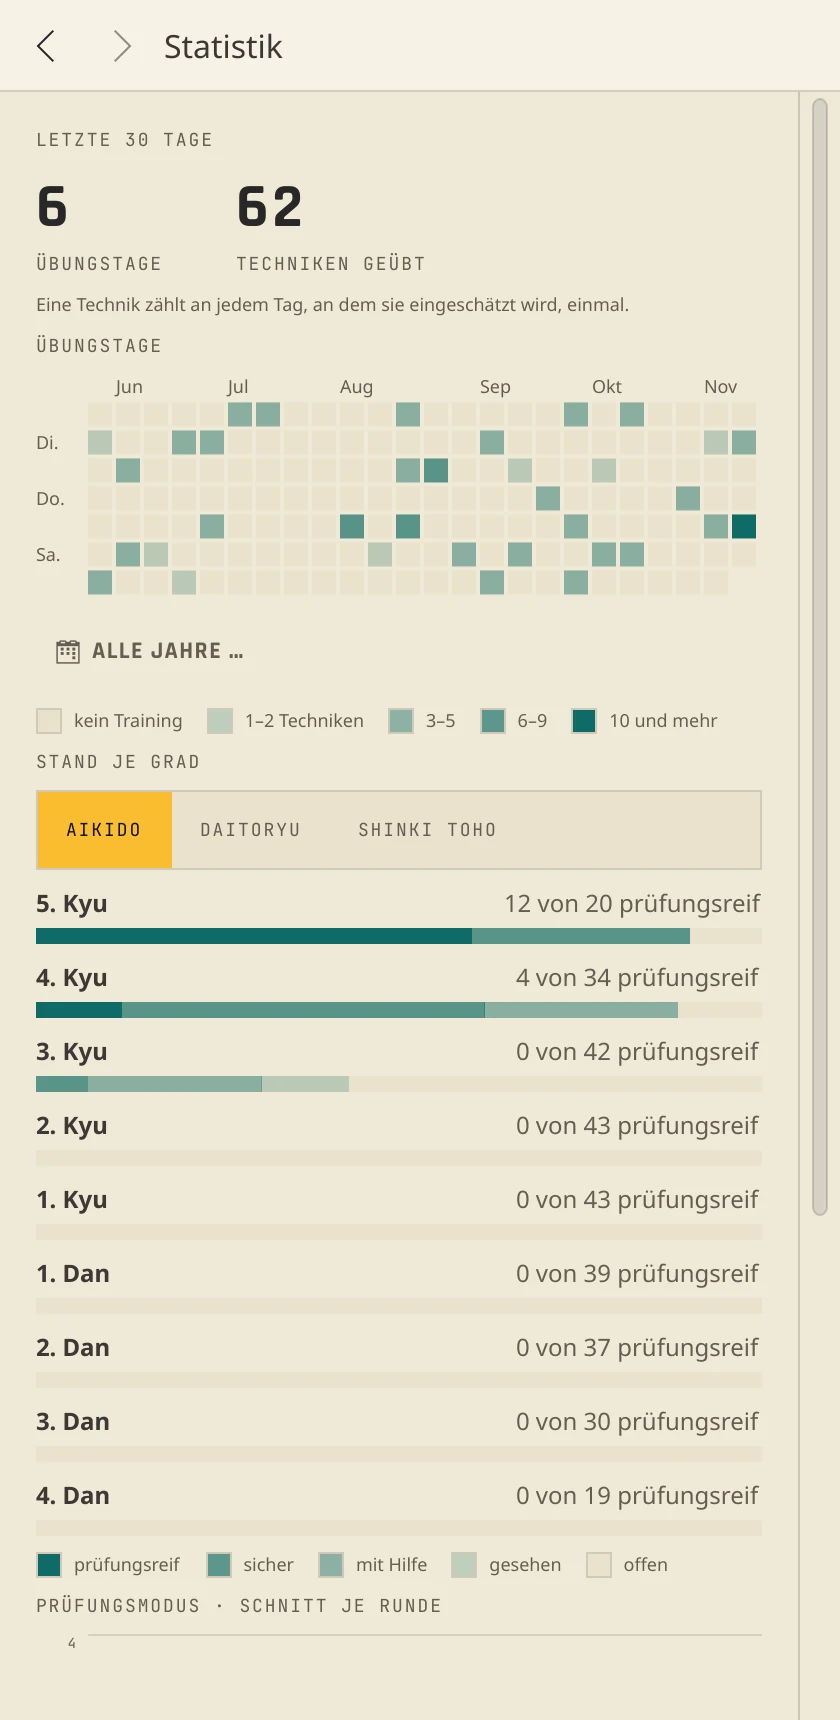
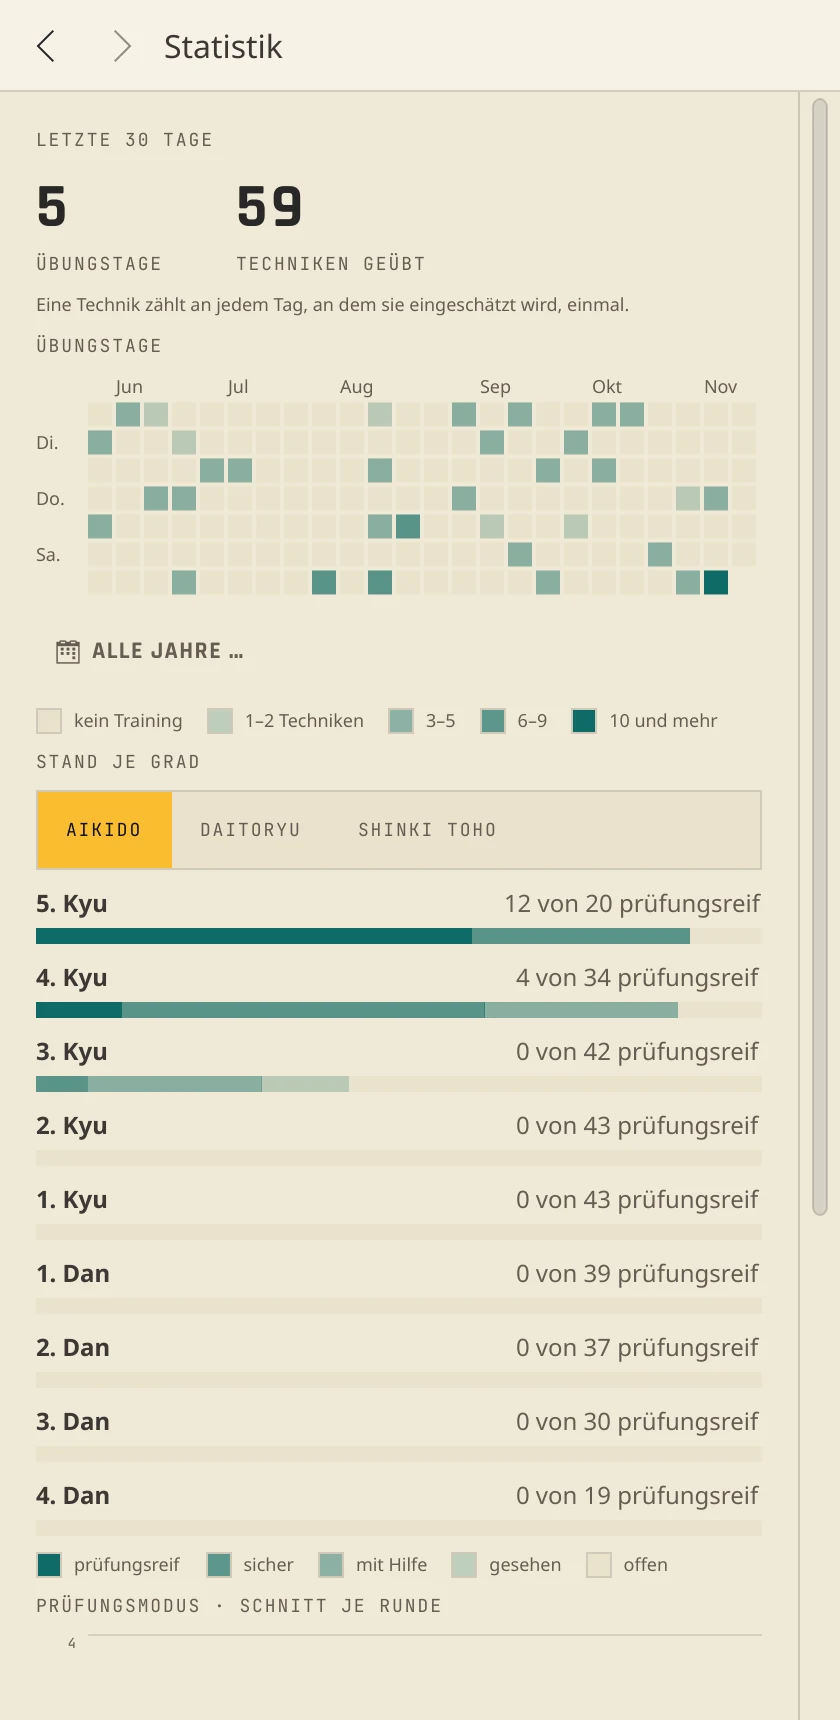
Anchor demo days, fix release text details
Reviews of #108 and shrippen.github.io#106:
- the demo world's dojo days count from the anchor (the Monday of
  this week), as the world's rule says, so courses fall on the
  weekdays their texts name; shots taken again;
- slow motion has three speeds (0.25, 0.5, 0.75), not four;
- the landing page names Settings -> Videos as the app does and
  shows file names with <version> instead of X.Y.Z.

Claude-Session: https://claude.ai/code/session_01AeAYXmzprBd46cSujmT9hN

Changed region(s): [[0.3714, 0.2157, 0.8976, 0.3698], [0.0929, 0.2157, 0.3405, 0.3698], [0.3095, 0.0924, 0.3405, 0.1233]]

diff --git a/docs/index.html b/docs/index.html
@@ -193,13 +193,13 @@
   <p lang="de">Alle Dateien stehen im <a href="https://github.com/shrippen/mitori-app/releases/latest">neuesten GitHub-Release</a>.</p>
   <div class="table-wrap"><table class="table">
     <tr><th><span lang="en">File</span><span lang="de">Datei</span></th><th><span lang="en">For</span><span lang="de">Für</span></th></tr>
-    <tr><td><code>Mitori-X.Y.Z.apk</code></td><td><span lang="en">Android 9 or newer, 64-bit ARM. Open it on the phone and allow the install from your browser or file manager.</span><span lang="de">Android 9 oder neuer, 64-Bit-ARM. Auf dem Telefon öffnen und die Installation aus Browser oder Dateimanager erlauben.</span></td></tr>
-    <tr><td><code>Mitori-X.Y.Z-x86_64.AppImage</code></td><td><span lang="en">Linux on x86_64: make it executable and start it.</span><span lang="de">Linux auf x86_64: ausführbar machen und starten.</span></td></tr>
-    <tr><td><code>Mitori-X.Y.Z-x86_64.flatpak</code></td><td><span lang="en">Linux on x86_64: <code>flatpak install --user</code> with the file.</span><span lang="de">Linux auf x86_64: <code>flatpak install --user</code> mit der Datei.</span></td></tr>
-    <tr><td><code>Mitori-X.Y.Z-aarch64.flatpak</code></td><td><span lang="en">Plasma Mobile and other Linux on 64-bit ARM.</span><span lang="de">Plasma Mobile und anderes Linux auf 64-Bit-ARM.</span></td></tr>
+    <tr><td><code>Mitori-&lt;version&gt;.apk</code></td><td><span lang="en">Android 9 or newer, 64-bit ARM. Open it on the phone and allow the install from your browser or file manager.</span><span lang="de">Android 9 oder neuer, 64-Bit-ARM. Auf dem Telefon öffnen und die Installation aus Browser oder Dateimanager erlauben.</span></td></tr>
+    <tr><td><code>Mitori-&lt;version&gt;-x86_64.AppImage</code></td><td><span lang="en">Linux on x86_64: make it executable and start it.</span><span lang="de">Linux auf x86_64: ausführbar machen und starten.</span></td></tr>
+    <tr><td><code>Mitori-&lt;version&gt;-x86_64.flatpak</code></td><td><span lang="en">Linux on x86_64: <code>flatpak install --user</code> with the file.</span><span lang="de">Linux auf x86_64: <code>flatpak install --user</code> mit der Datei.</span></td></tr>
+    <tr><td><code>Mitori-&lt;version&gt;-aarch64.flatpak</code></td><td><span lang="en">Plasma Mobile and other Linux on 64-bit ARM.</span><span lang="de">Plasma Mobile und anderes Linux auf 64-Bit-ARM.</span></td></tr>
   </table></div>
-  <p lang="en">The videos need the code of a DVD of the Shinkiryu association; Settings → Videos and DVD codes, or "Enter code" in the programme. Typed or scanned as QR code.</p>
-  <p lang="de">Die Videos brauchen den Code einer DVD des Shinkiryu-Verbands; Einstellungen → Videos und DVD-Codes oder „Code eingeben“ im Programm. Getippt oder als QR-Code gescannt.</p>
+  <p lang="en">The videos need the code of a DVD of the Shinkiryu association; Settings → Videos, or "Enter code" in the programme. Typed or scanned as QR code.</p>
+  <p lang="de">Die Videos brauchen den Code einer DVD des Shinkiryu-Verbands; Einstellungen → Videos oder „Code eingeben“ im Programm. Getippt oder als QR-Code gescannt.</p>
 </section>
 
 <section class="section" id="changes">
@@ -212,7 +212,7 @@
         <p class="release-lead"><span lang="en">The first release: Mitori puts the exam programmes of Aikido Shinki Rengo, Daitoryu and Itto-den Shinki Toho on your phone, tablet or desktop, so you can look up every technique, practise it, rate how well you know it and prepare for your next exam.</span><span lang="de">Das erste Release: Mitori bringt die Prüfungsprogramme von Aikido Shinki Rengo, Daitoryu und Itto-den Shinki Toho auf Telefon, Tablet oder Desktop, damit du jede Technik nachschlagen, üben, einschätzen und dich auf deine nächste Prüfung vorbereiten kannst.</span></p>
         <div class="release-group" data-kind="new"><h3><span lang="en">New</span><span lang="de">Neu</span></h3><ul>
           <li><span lang="en">The programmes of all three disciplines, grade by grade, with Japanese names and kanji, the attacks and groups as in the exam rules, and the comments on Shinki Toho; in German or English.</span><span lang="de">Die Programme aller drei Sparten, Grad für Grad, mit japanischen Namen und Kanji, Angriffen und Gruppen wie in der Prüfungsordnung und den Kommentaren zu Shinki Toho; auf Deutsch oder Englisch.</span></li>
-          <li><span lang="en">Tap a technique and its place in the exam video plays: slow motion in four speeds, loop, frame by frame, full screen; swipe for brightness and volume.</span><span lang="de">Technik antippen, ihre Stelle im Prüfungsvideo läuft: Zeitlupe in vier Tempi, Schleife, Einzelbild, Vollbild; Wischen für Helligkeit und Lautstärke.</span></li>
+          <li><span lang="en">Tap a technique and its place in the exam video plays: slow motion in three speeds, loop, frame by frame, full screen; swipe for brightness and volume.</span><span lang="de">Technik antippen, ihre Stelle im Prüfungsvideo läuft: Zeitlupe in drei Stufen, Schleife, Einzelbild, Vollbild; Wischen für Helligkeit und Lautstärke.</span></li>
           <li><span lang="en">Rate each technique from 1 (seen) to 4 (ready for the exam); the programme and the grade chips show where you stand.</span><span lang="de">Jede Technik einschätzen von 1 (gesehen) bis 4 (prüfungsreif); Programm und Grad-Chips zeigen deinen Stand.</span></li>
           <li><span lang="en">Practise today: what is due by a review plan up to your practice grade, as a training playlist where rating moves on to the next technique.</span><span lang="de">Heute üben: was nach Plan fällig ist, bis zu deinem Übungsgrad, als Training in einer Playliste, in der Einschätzen zur nächsten Technik weiterschaltet.</span></li>
           <li><span lang="en">Notes on every technique, with photos and voice notes; all notes in one list, filtered by discipline and courses; search across techniques and your notes.</span><span lang="de">Notizen zu jeder Technik, mit Fotos und Sprachnotizen; alle Notizen in einer Liste, gefiltert nach Sparte und Lehrgängen; Suche über Techniken und deine Notizen.</span></li>

diff --git a/app/demo/demo.cpp b/app/demo/demo.cpp
@@ -51,15 +51,24 @@ QString text(const QJsonValue &value)
     return value.toString();
 }
 
-// A day relative to today (0 = today) at a local time ("19:30"), in UTC as the stores keep it.
+// The world's anchor: the Monday of the week that contains today (demo/README.md, "Time"), so a
+// course on day 19 is a Saturday whatever the day. The real today, not DEMO_TODAY: the app itself
+// runs on the real clock ("today": "real" in demo/shots.json).
+QDate anchor()
+{
+    const QDate today = QDate::currentDate();
+    return today.addDays(1 - today.dayOfWeek());
+}
+
+// A day offset from the anchor at a local time ("19:30"), in UTC as the stores keep it.
 QDateTime at(int day, const QString &time = QStringLiteral("12:00"))
 {
-    return QDateTime(QDate::currentDate().addDays(day), QTime::fromString(time, QStringLiteral("HH:mm"))).toUTC();
+    return QDateTime(anchor().addDays(day), QTime::fromString(time, QStringLiteral("HH:mm"))).toUTC();
 }
 
 QDate dayOf(const QJsonValue &value)
 {
-    return QDate::currentDate().addDays(value.toInt());
+    return anchor().addDays(value.toInt());
 }
 
 QJsonObject dojo()

diff --git a/CHANGELOG.md b/CHANGELOG.md
@@ -10,7 +10,7 @@ The first release: Mitori puts the exam programmes of Aikido Shinki Rengo, Daito
 
 #### New
 - The programmes of all three disciplines, grade by grade, with Japanese names and kanji, the attacks and groups as in the exam rules, and the comments on Shinki Toho; in German or English.
-- Tap a technique and its place in the exam video plays: slow motion in four speeds, loop, frame by frame, full screen; swipe for brightness and volume.
+- Tap a technique and its place in the exam video plays: slow motion in three speeds, loop, frame by frame, full screen; swipe for brightness and volume.
 - Rate each technique from 1 (seen) to 4 (ready for the exam); the programme and the grade chips show where you stand.
 - Practise today: what is due by a review plan up to your practice grade, as a training playlist where rating moves on to the next technique.
 - Notes on every technique, with photos and voice notes; all notes in one list, filtered by discipline and courses; search across techniques and your notes.
@@ -40,7 +40,7 @@ Das erste Release: Mitori bringt die Prüfungsprogramme von Aikido Shinki Rengo,
 
 #### Neu
 - Die Programme aller drei Sparten, Grad für Grad, mit japanischen Namen und Kanji, Angriffen und Gruppen wie in der Prüfungsordnung und den Kommentaren zu Shinki Toho; auf Deutsch oder Englisch.
-- Technik antippen, ihre Stelle im Prüfungsvideo läuft: Zeitlupe in vier Tempi, Schleife, Einzelbild, Vollbild; Wischen für Helligkeit und Lautstärke.
+- Technik antippen, ihre Stelle im Prüfungsvideo läuft: Zeitlupe in drei Stufen, Schleife, Einzelbild, Vollbild; Wischen für Helligkeit und Lautstärke.
 - Jede Technik einschätzen von 1 (gesehen) bis 4 (prüfungsreif); Programm und Grad-Chips zeigen deinen Stand.
 - Heute üben: was nach Plan fällig ist, bis zu deinem Übungsgrad, als Training in einer Playliste, in der Einschätzen zur nächsten Technik weiterschaltet.
 - Notizen zu jeder Technik, mit Fotos und Sprachnotizen; alle Notizen in einer Liste, gefiltert nach Sparte und Lehrgängen; Suche über Techniken und deine Notizen.
